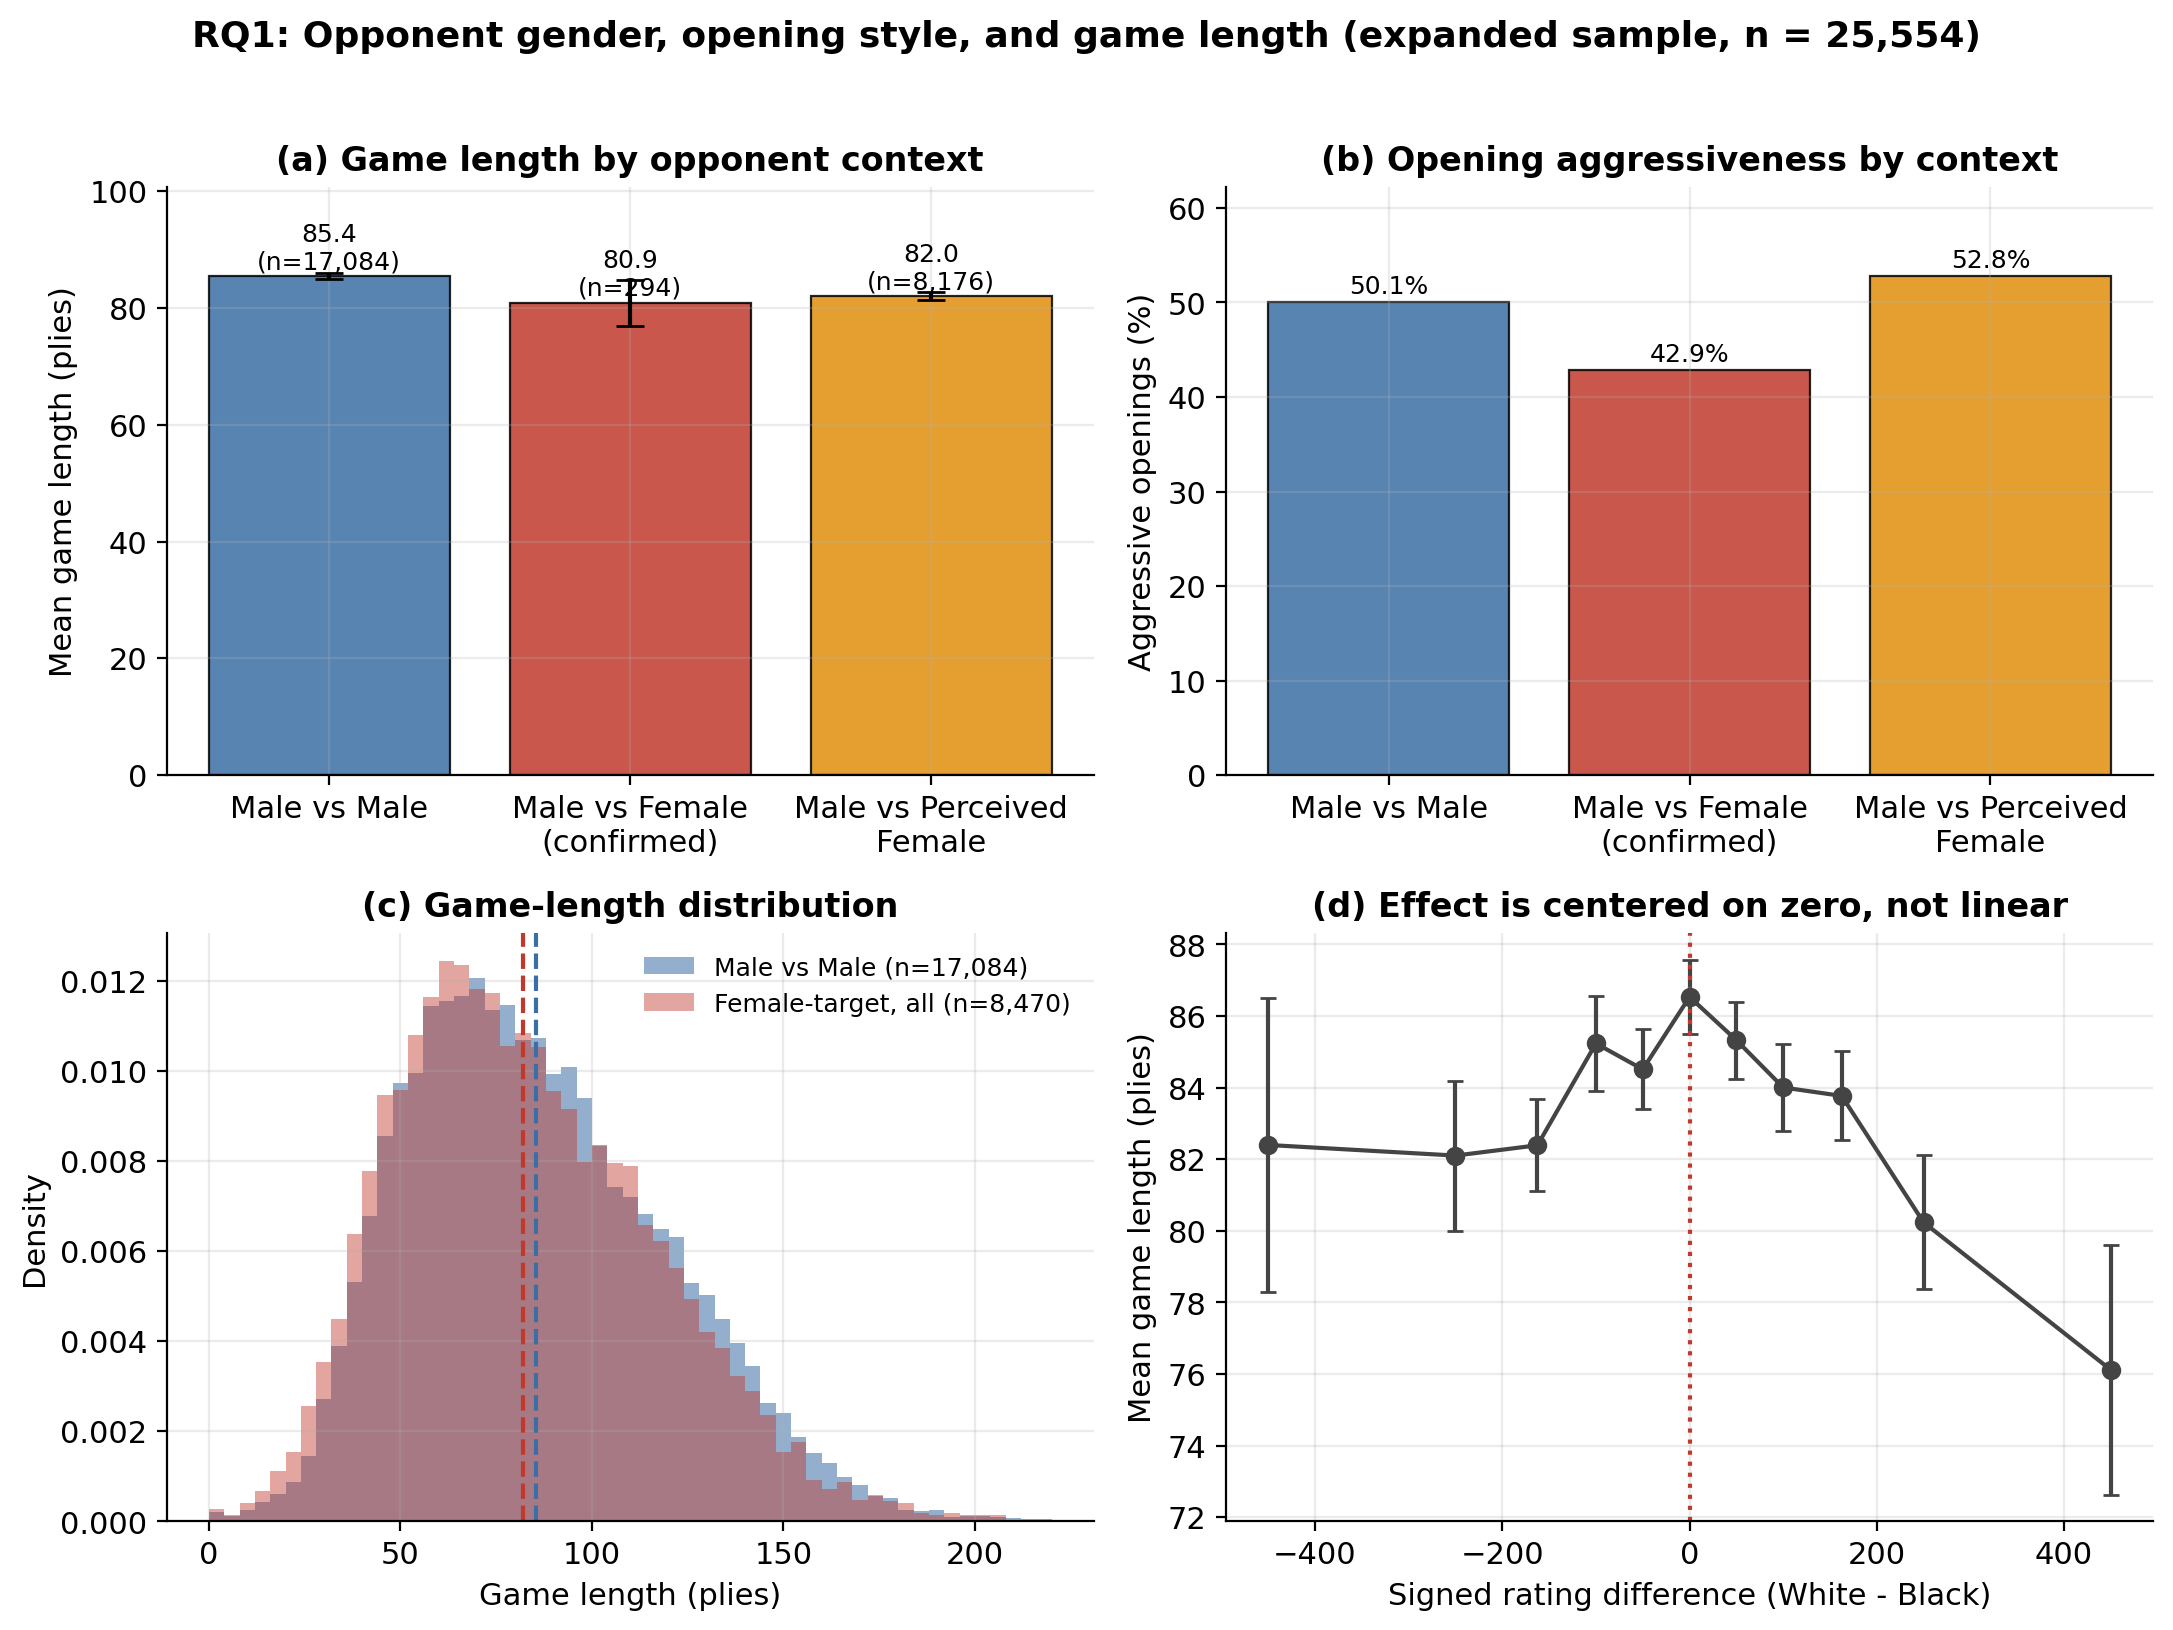
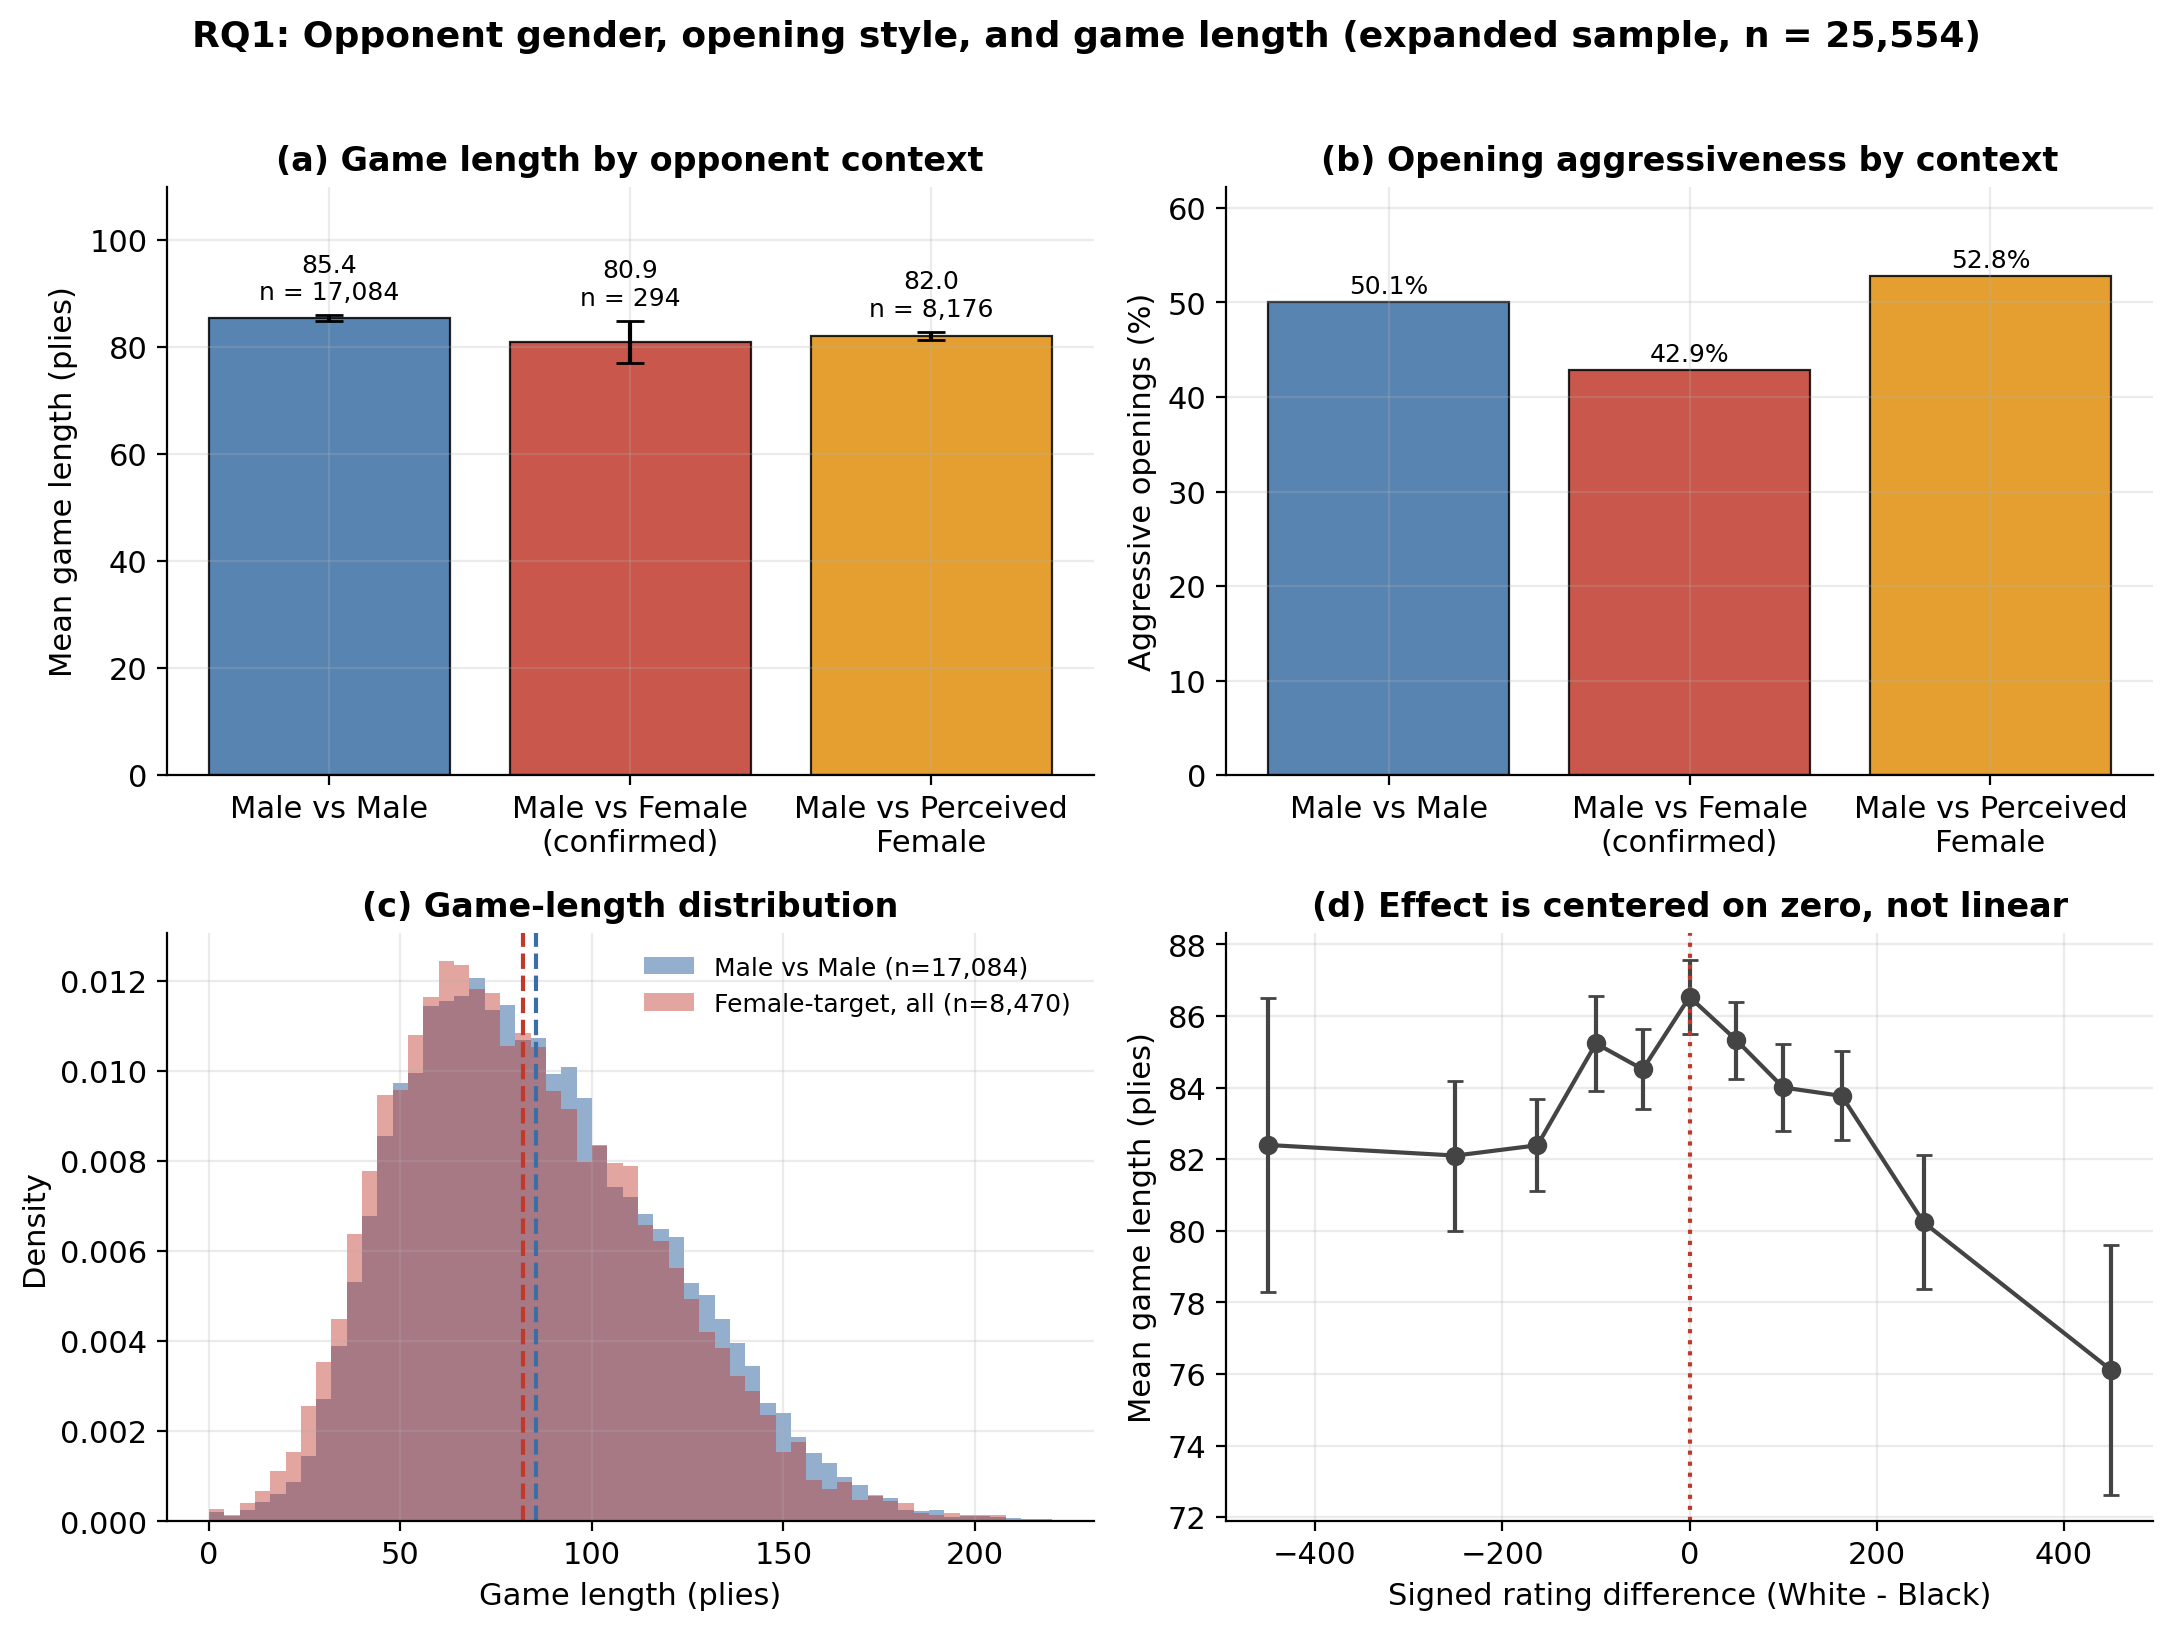
Update figure 1 and figure script (#6)
Files changed:
- figures/fig1_rq1_overview.png
- figures/make_figures.py

diff --git a/figures/make_figures.py b/figures/make_figures.py
@@ -59,12 +59,13 @@ cols = [g[2] for g in groups]
 labels = [g[0] for g in groups]
 bars = ax[0, 0].bar(labels, means, yerr=errs, capsize=5, color=cols, alpha=0.85,
                     edgecolor="black", linewidth=0.8)
-for b, m, g in zip(bars, means, groups):
-    ax[0, 0].text(b.get_x() + b.get_width() / 2, m + 0.4, f"{m:.1f}\n(n={len(g[1]):,})",
+for b, m, e, g in zip(bars, means, errs, groups):
+    ax[0, 0].text(b.get_x() + b.get_width() / 2, m + e + 2.0,
+                  f"{m:.1f}\nn = {len(g[1]):,}",
                   ha="center", va="bottom", fontsize=9)
 ax[0, 0].set_ylabel("Mean game length (plies)")
 ax[0, 0].set_title("(a) Game length by opponent context")
-ax[0, 0].set_ylim(0, max(means) * 1.18)
+ax[0, 0].set_ylim(0, max(m + e for m, e in zip(means, errs)) * 1.28)
 
 # (b) aggressive opening rate by context
 agg_rates = [g[1]["Agg"].mean() * 100 for g in groups]
